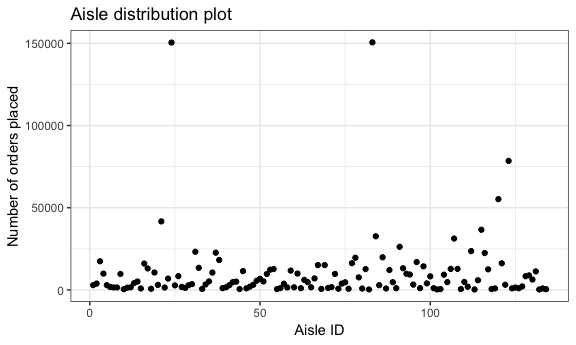
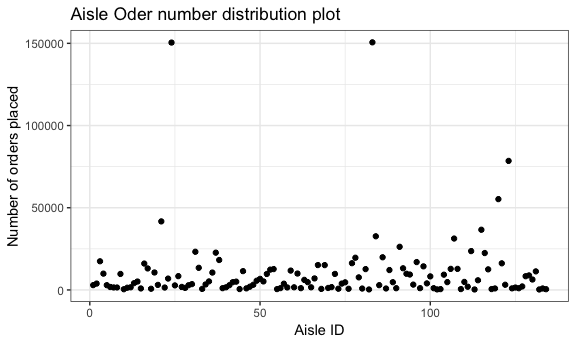
Add some comments

Changed region(s): [[0.1875, 0.0, 0.5938, 0.058]]

diff --git a/p8105_hw3_qw2282.md b/p8105_hw3_qw2282.md
@@ -47,43 +47,28 @@ ggplot(data = num_observations, aes(x = year, y = n, color = locationabbr)) + ge
   )
 ```
 
-<img src="p8105_hw3_qw2282_files/figure-markdown_github/unnamed-chunk-2-1.png" width="90%" /> The sphaghetti plot is shown with colored locations.
+<img src="p8105_hw3_qw2282_files/figure-markdown_github/unnamed-chunk-2-1.png" width="90%" />
+
+The sphaghetti plot is shown with colored locations. From the plot, we can observe that most of the states have observations between zero and a hundred. And most of the states does not have large changes from 2002 to 2010. However, there are some outliers, such as FL, which has extremely high number of observations in 2007 and 2010. This might influence the mean and standard deviation.
 
 ``` r
 #Generate the summarize data for 2002, 2006, 2010
 summary_ny_excellent = brfss_smart2010 %>% 
-  group_by(locationabbr) %>% 
+  group_by(year) %>% 
   filter(locationabbr == "NY" & (year == 2002 | year == 2006 | year == 2010)) %>% 
   select(-c(topic, class, question, sample_size, confidence_limit_low:geo_location)) %>% 
-  
-  #Separate the keys to make the table readable. 
   spread(key = response, value = data_value) %>% 
-  group_by(year) 
+  summarize(mean_excellent = mean(Excellent),
+            sd_excellent = sd(Excellent))
+  
   knitr::kable(summary_ny_excellent)
 ```
 
-|  year| locationabbr | locationdesc            |  Excellent|  Very good|  Good|  Fair|  Poor|
-|-----:|:-------------|:------------------------|----------:|----------:|-----:|-----:|-----:|
-|  2002| NY           | NY - Kings County       |       19.5|       27.5|  37.2|  11.9|   3.9|
-|  2002| NY           | NY - Nassau County      |       26.9|       39.7|  22.5|   8.4|   2.4|
-|  2002| NY           | NY - New York County    |       27.9|       28.7|  25.4|  12.9|   5.1|
-|  2002| NY           | NY - Queens County      |       18.8|       29.1|  32.6|  15.4|   4.1|
-|  2002| NY           | NY - Suffolk County     |       27.1|       28.2|  30.2|   9.5|   4.9|
-|  2006| NY           | NY - Kings County       |       19.2|       25.9|  36.3|  15.3|   3.3|
-|  2006| NY           | NY - Nassau County      |       21.7|       35.0|  28.2|  11.6|   3.5|
-|  2006| NY           | NY - New York County    |       28.8|       32.3|  23.5|  11.5|   3.9|
-|  2006| NY           | NY - Queens County      |       18.9|       25.9|  36.6|  16.3|   2.3|
-|  2006| NY           | NY - Suffolk County     |       20.6|       35.8|  30.3|  10.7|   2.7|
-|  2006| NY           | NY - Westchester County |       26.0|       32.8|  26.3|  13.0|   1.9|
-|  2010| NY           | NY - Bronx County       |       17.6|       25.9|  35.1|  16.7|   4.7|
-|  2010| NY           | NY - Erie County        |       17.2|       37.9|  29.6|  12.7|   2.5|
-|  2010| NY           | NY - Kings County       |       22.4|       27.7|  30.6|  13.8|   5.5|
-|  2010| NY           | NY - Monroe County      |       22.4|       33.2|  30.0|  11.0|   3.5|
-|  2010| NY           | NY - Nassau County      |       26.2|       38.9|  25.4|   7.3|   2.3|
-|  2010| NY           | NY - New York County    |       25.8|       38.0|  21.4|  10.3|   4.5|
-|  2010| NY           | NY - Queens County      |       21.2|       29.8|  32.4|  13.9|   2.7|
-|  2010| NY           | NY - Suffolk County     |       24.6|       35.5|  29.6|   7.7|   2.6|
-|  2010| NY           | NY - Westchester County |       26.9|       40.3|  25.2|   5.3|   2.2|
+|  year|  mean\_excellent|  sd\_excellent|
+|-----:|----------------:|--------------:|
+|  2002|         24.04000|       4.486424|
+|  2006|         22.53333|       4.000833|
+|  2010|         22.70000|       3.567212|
 
 ``` r
 #calculate the mean proportion of each response at the state level in each year.
@@ -129,13 +114,13 @@ instacart %>%
   group_by(aisle) %>% #134 aisles
   summarize(n = n()) %>% 
   mutate(order_ranking = min_rank(desc(n))) %>% 
-  filter(min_rank(desc(n)) < 2)  #Fresh Vegetables
+  filter(min_rank(desc(n)) < 2) %>%  #Fresh Vegetables
+  knitr::kable()
 ```
 
-    ## # A tibble: 1 x 3
-    ##   aisle                 n order_ranking
-    ##   <chr>             <int>         <int>
-    ## 1 fresh vegetables 150609             1
+| aisle            |       n|  order\_ranking|
+|:-----------------|-------:|---------------:|
+| fresh vegetables |  150609|               1|
 
 ``` r
 ################################
@@ -145,7 +130,7 @@ instacart %>%
   ggplot( aes(x = aisle_id, y = n)) + 
   geom_point() + 
   labs(
-    title = "Aisle distribution plot",
+    title = "Aisle Oder number distribution plot",
     x = "Aisle ID",
     y = "Number of orders placed"
   )
@@ -216,9 +201,8 @@ The most commonly observed value for snow fall is zero. This is because most of 
 ny_jan_jul = ny_data %>% 
   group_by(id, month) %>% 
   mutate(tmax_0.1_celcius = as.numeric(tmax_0.1_celcius, na.rm = TRUE)) %>% 
-  mutate(tmin_0.1_celcius = as.numeric(tmin_0.1_celcius, na.rm = TRUE)) %>%
   filter(month == "01" | month == "07") %>%
-  summarize(mean_temp = mean((tmax_0.1_celcius + tmin_0.1_celcius)/2)) %>% 
+  summarize(mean_temp = mean(tmax_0.1_celcius)) %>% 
   na.omit(mean_temp) 
   ggplot(ny_jan_jul, aes( x = id, y = mean_temp)) +
   geom_point() + 
